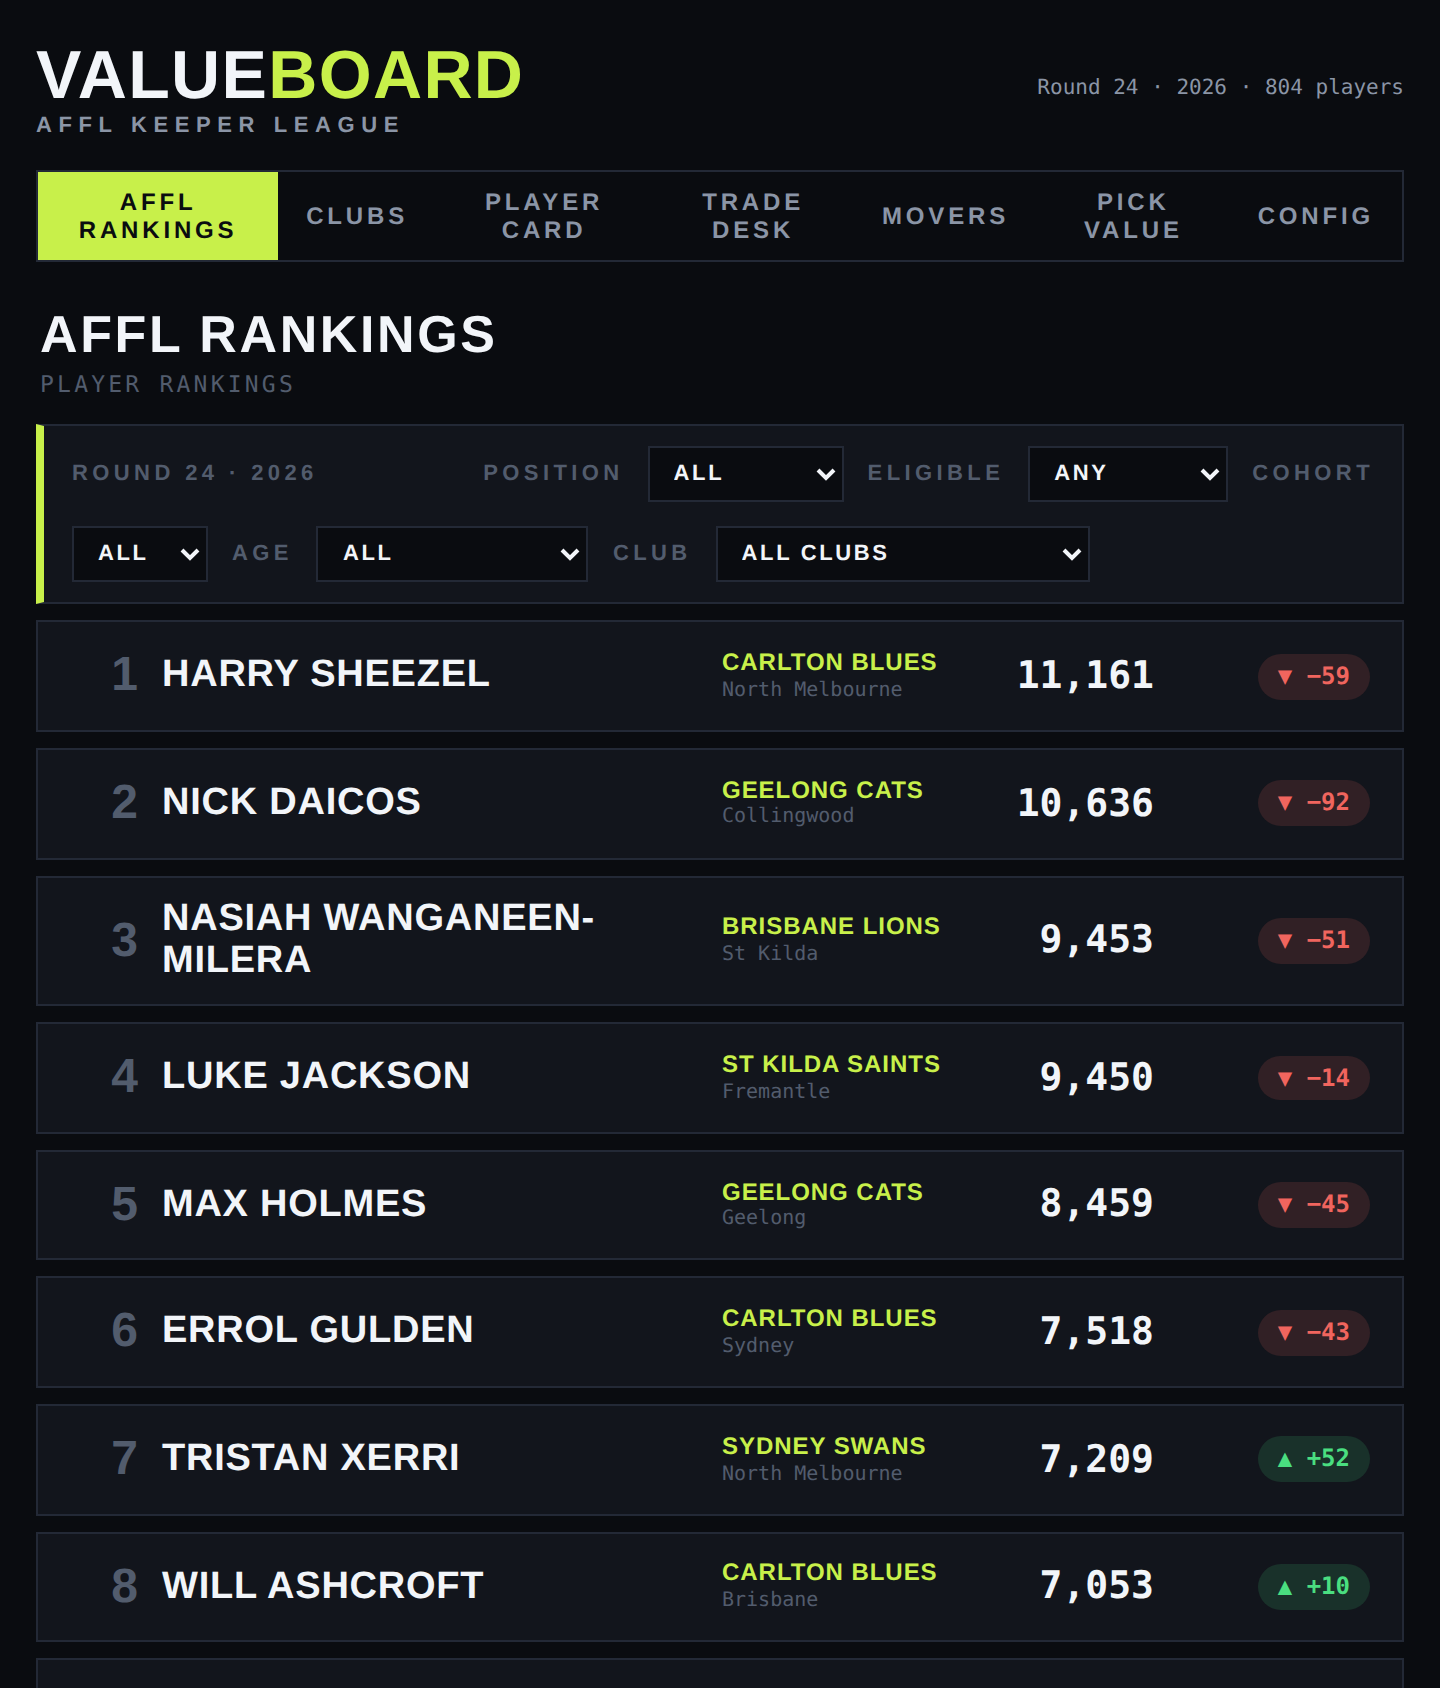
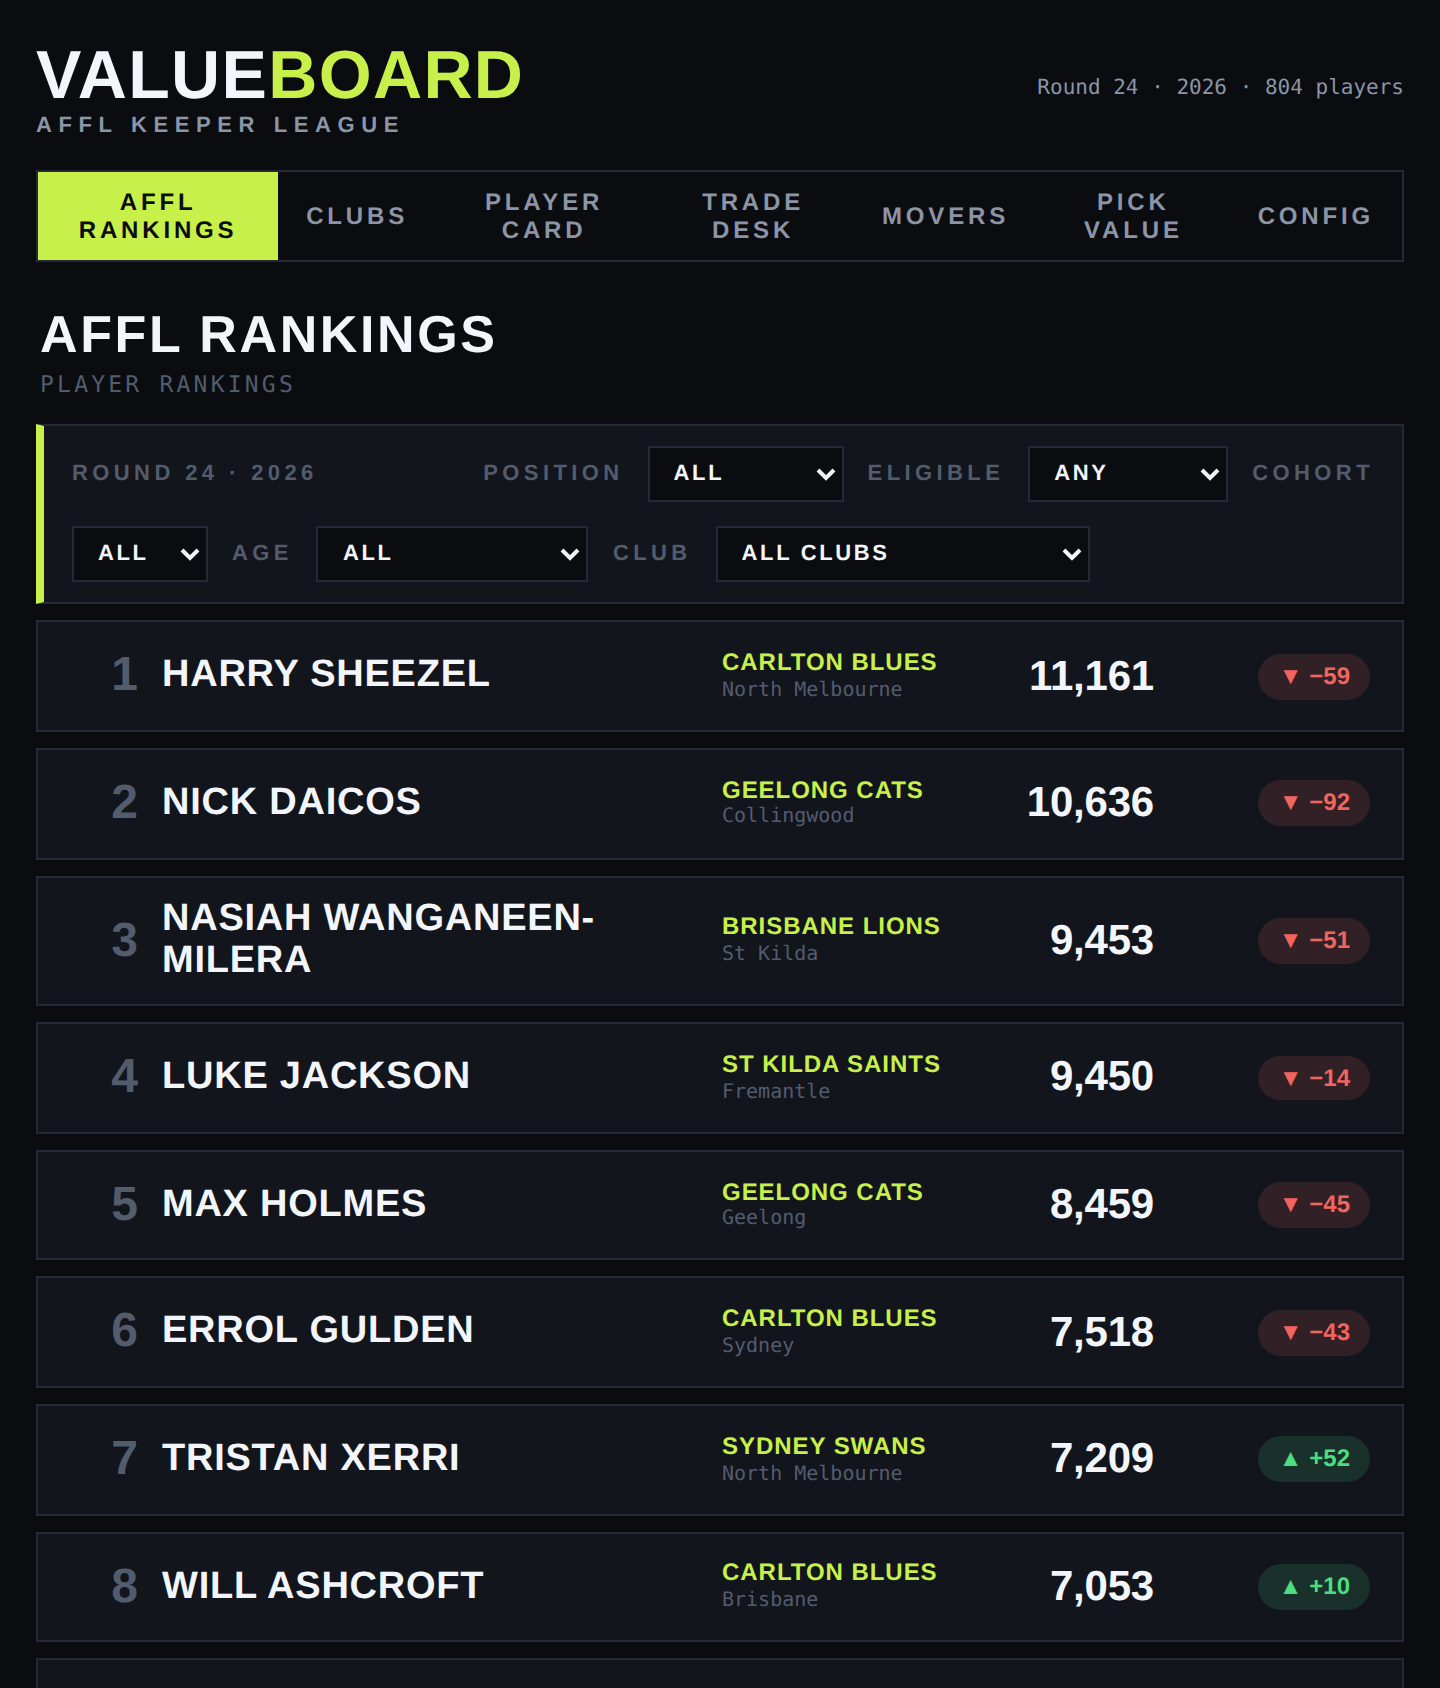
item 10: the value figures move to the system sans, and --fig splits from --mono
His ask was "something that looks a little cleaner and less mechanical" on the
value rating numbers. Two options were rendered and put to him; he chose the
system sans over the condensed scoreboard face.

The change is a TOKEN SPLIT, not a font-family sweep, because one token was
doing two jobs:

  --fig  a VALUE — a price, a delta, a ratio, a rank, a score
  --mono an IDENTIFIER or a caption — a club name, a pick slug, a stamp, a
         footnote, a tooltip

Monospace earned its place on the second and was only ever borrowed for the
first, where the slab figures are exactly what read as mechanical. 24 rules move
to --fig; 23 keep --mono. The board value goes 19px/700 mono to 21px/600 sans,
the card stat figure 24 to 25.

WHAT MONOSPACE WAS ACTUALLY BUYING, AND HOW IT IS KEPT. Alignment. Every digit
on one advance width is why a column of prices reads as a column. Dropping the
mono without replacing that property would have left every numeric column ragged
and the change would not have been worth making. tabular-nums does the same job
in a proportional face, and lining-nums is asked for explicitly so no fallback
substitutes old-style numerals with dropping tails into a table.

The suite pins the property rather than the taste. Which family won is his to
change; that the figures still MEASURE the same width for the same digit count
is not. So it asserts the face is no longer monospaced, that it asks for tabular
[…]

diff --git a/ui/styles/matchday.css b/ui/styles/matchday.css
@@ -13,12 +13,23 @@
   --cond:"Arial Narrow","Helvetica Neue Condensed","Roboto Condensed",Arial,sans-serif;
   --sans:"Helvetica Neue",Arial,sans-serif;
   --mono:ui-monospace,"SF Mono",Menlo,Consolas,monospace;
+  /* OWNER ITEM 10 (2026-08-31), his choice of two put to him: "something that looks a little
+     cleaner and less mechanical" on the value rating numbers. --fig is the FIGURE face and it is
+     now separate from --mono, because the two were doing different jobs under one token:
+       --fig  = a VALUE. A price, a delta, a ratio, a rank, a score. Set in the system sans.
+       --mono = an IDENTIFIER or a caption. A club name, a pick slug, a stamp, a footnote.
+     Monospace earned its place on the second and was only ever borrowed for the first, where its
+     slab figures are what read as mechanical. The alignment that made it worth borrowing is kept
+     without it: tabular-nums pins every digit to one advance width, so columns of figures still
+     line up exactly as they did. Lining figures are asked for explicitly so no fallback face
+     substitutes old-style (dropping-tail) numerals into a table. */
+  --fig:"Helvetica Neue",Helvetica,Arial,"Segoe UI",Roboto,system-ui,sans-serif;
 }
 *{box-sizing:border-box}
 html,body{margin:0}
 body{background:var(--pitch);color:var(--text);font-family:var(--sans);font-size:14px;line-height:1.4;
   -webkit-font-smoothing:antialiased}
-.num{font-family:var(--mono);font-variant-numeric:tabular-nums}
+.num{font-family:var(--fig);font-variant-numeric:tabular-nums lining-nums}
 a{color:var(--volt)}
 
 /* ---- pitch banner (the "invented figures" line becomes the live board stamp line) ---- */
@@ -135,7 +146,7 @@ header.mast{display:flex;align-items:center;gap:18px;flex-wrap:wrap;padding:22px
 .row .club{display:flex;flex-direction:column;gap:1px;min-width:0;line-height:1.15}
 .row .club .affl{font-family:var(--cond);font-weight:700;font-size:12px;letter-spacing:.04em;text-transform:uppercase;color:var(--volt);overflow-wrap:break-word}
 .row .club .afl{font-family:var(--mono);font-size:10px;letter-spacing:0;text-transform:none;color:var(--faint);overflow-wrap:break-word}
-.row .val{font-family:var(--mono);font-weight:700;font-size:19px;text-align:right}
+.row .val{font-family:var(--fig);font-weight:600;font-size:21px;text-align:right;letter-spacing:-.005em}
 /* item 3 (register item 163, owner-worded amendment to the LOCK, 2026-07-15): the CONTINUOUS value line.
    The spectrum is painted on the track (anchored 0..top price); .vmask covers the unfilled remainder, so
    the fill reveals the spectrum from the cool end up to the player's value — colour shifts as it fills.
@@ -153,12 +164,12 @@ header.mast{display:flex;align-items:center;gap:18px;flex-wrap:wrap;padding:22px
 .vline.vline-r{height:16px}
 .vline .vp1{position:absolute;top:0;bottom:0;width:0;border-left:1px dashed rgba(11,14,19,.75);
   box-shadow:1px 0 0 rgba(242,245,249,.35);pointer-events:none}
-.vline .vratio{position:absolute;top:50%;transform:translateY(-50%);font-family:var(--mono);
+.vline .vratio{position:absolute;top:50%;transform:translateY(-50%);font-family:var(--fig);
   font-size:10px;font-weight:700;letter-spacing:.01em;line-height:1;white-space:nowrap;
   pointer-events:none;font-variant-numeric:tabular-nums}
 .vline .vratio.out{margin-left:5px;color:var(--dim)}
 .vline .vratio.in{transform:translate(-100%,-50%);margin-left:-5px;color:#0b0e13}
-.pill{justify-self:end;font-family:var(--mono);font-size:12px;font-weight:700;padding:3px 10px;border-radius:999px;white-space:nowrap}
+.pill{justify-self:end;font-family:var(--fig);font-size:12px;font-weight:700;padding:3px 10px;border-radius:999px;white-space:nowrap}
 .pill.up{background:rgba(74,222,128,.14);color:var(--up)}
 .pill.dn{background:rgba(240,101,94,.14);color:var(--dn)}
 .pill.flat{background:var(--edge);color:var(--faint)}
@@ -192,7 +203,7 @@ header.mast{display:flex;align-items:center;gap:18px;flex-wrap:wrap;padding:22px
   padding:12px 16px 8px;margin-top:12px;border-bottom:2px solid var(--volt)}
 .clubhead .crank{font-family:var(--cond);font-weight:900;font-size:22px;color:var(--volt);text-align:right}
 .clubhead .cname{font-family:var(--cond);font-weight:900;font-size:18px;letter-spacing:.03em;text-transform:uppercase;color:var(--text)}
-.clubhead .csig{font-family:var(--mono);font-weight:700;font-size:16px;color:var(--volt)}
+.clubhead .csig{font-family:var(--fig);font-weight:700;font-size:16px;color:var(--volt)}
 .clubhead .csig small{font-size:10px;color:var(--faint);font-weight:400}
 .clubhead .ccount{font-family:var(--mono);font-size:11px;color:var(--faint)}
 .clubmore{font-family:var(--mono);font-size:11px;color:var(--faint);padding:6px 16px;border:1px dashed var(--edge);
@@ -212,7 +223,7 @@ header.mast{display:flex;align-items:center;gap:18px;flex-wrap:wrap;padding:22px
 .card .body{padding:20px 24px 34px}
 .statrow{display:grid;grid-template-columns:1fr 1fr 1fr;gap:14px}
 .k{font-family:var(--cond);font-weight:700;font-size:10px;letter-spacing:.18em;text-transform:uppercase;color:var(--faint)}
-.v{font-family:var(--mono);font-weight:700;font-size:24px;margin-top:3px}
+.v{font-family:var(--fig);font-weight:600;font-size:25px;margin-top:3px;letter-spacing:-.005em}
 .v.volt{color:var(--volt)} .v.flat{color:var(--faint);font-size:20px}
 .v.up{color:var(--up)} .v.dn{color:var(--dn)} .v small{font-size:13px;color:var(--faint)}
 h2.sec{font-family:var(--cond);font-weight:700;font-size:12px;letter-spacing:.22em;text-transform:uppercase;color:var(--text);
@@ -229,11 +240,11 @@ h2.sec .meta{color:var(--faint);font-family:var(--mono);letter-spacing:0;text-tr
 .wf .bar.up{left:50%;background:var(--up)} .wf .bar.dn{right:50%;background:var(--dn)}
 .wf .bar.rule{right:50%;background:transparent;border:1px solid var(--volt)}
 .wf .bar.resid{left:50%;background:var(--alarm)}
-.wf .fig{font-family:var(--mono);font-weight:700;font-size:13px;text-align:right}
+.wf .fig{font-family:var(--fig);font-weight:700;font-size:13px;text-align:right}
 .wf .fig.up{color:var(--up)} .wf .fig.dn{color:var(--dn)} .wf .fig.zero{color:var(--faint);font-weight:400}
 .wf .fig.rule{color:var(--volt)} .wf .fig.resid{color:var(--alarm)}
 .wf .totals{font-family:var(--cond);font-weight:700;font-size:12px;letter-spacing:.16em;text-transform:uppercase;color:var(--dim)}
-.wf .totals b{font-family:var(--mono);color:var(--text);font-size:15px;letter-spacing:0}
+.wf .totals b{font-family:var(--fig);color:var(--text);font-size:15px;letter-spacing:0}
 .wf .rowline{grid-column:1/4;border-bottom:1px solid var(--edge)}
 .note{margin-top:12px;font-size:12px;color:var(--dim);line-height:1.6}
 .note b{color:var(--volt)}
@@ -255,13 +266,13 @@ h2.sec .meta{color:var(--faint);font-family:var(--mono);letter-spacing:0;text-tr
 .wchart .wcd{fill:var(--volt);stroke:none}
 .wchart .wcd.ev{fill:var(--pitch);stroke:var(--volt);stroke-width:1.5}
 .wchart .wcd.now{fill:#f2f5f9}
-.wchart .wcy{fill:var(--dim);font-family:var(--mono);font-size:10px;text-anchor:end;dominant-baseline:middle}
-.wchart .wcx{fill:var(--dim);font-family:var(--mono);font-size:10px;text-anchor:middle}
+.wchart .wcy{fill:var(--dim);font-family:var(--fig);font-size:10px;text-anchor:end;dominant-baseline:middle}
+.wchart .wcx{fill:var(--dim);font-family:var(--fig);font-size:10px;text-anchor:middle}
 .wchart .wcx.ev{fill:var(--volt)}
 .wchart .wcat{fill:var(--faint);font-family:var(--cond);font-weight:700;font-size:10px;
   letter-spacing:.22em;text-anchor:middle}
 .wcfoot{display:flex;flex-wrap:wrap;gap:6px 16px;align-items:baseline;padding:8px 4px 4px;
-  font-family:var(--mono);font-size:11px;color:var(--dim)}
+  font-family:var(--fig);font-size:11.5px;color:var(--dim)}
 .wcfoot b{color:var(--text);font-variant-numeric:tabular-nums}
 .wcfoot .up{color:var(--up)}.wcfoot .dn{color:var(--dn)}.wcfoot .flat{color:var(--faint)}
 .wcfoot .axnote{margin-left:auto;color:var(--faint);font-family:var(--cond);letter-spacing:.06em;
@@ -278,13 +289,13 @@ h2.sec .meta{color:var(--faint);font-family:var(--mono);letter-spacing:0;text-tr
 .trow{display:flex;align-items:center;gap:10px;padding:0 16px;height:42px;border-bottom:1px solid var(--edge)}
 .trow .tnm{font-family:var(--cond);font-weight:700;font-size:15px;letter-spacing:.02em;text-transform:uppercase;flex:1;overflow-wrap:anywhere}
 .trow .tnm i{color:var(--faint);font-style:normal;font-family:var(--mono);font-size:11px;margin-left:8px;text-transform:none;letter-spacing:0}
-.trow .tfig{font-family:var(--mono);font-weight:700;font-size:14px}
+.trow .tfig{font-family:var(--fig);font-weight:700;font-size:14px}
 .trow .tpin{color:var(--volt)}
 .pickchip{display:inline-block;font-family:var(--cond);font-weight:700;font-size:10px;letter-spacing:.1em;
   text-transform:uppercase;color:var(--volt);border:1px solid var(--volt);padding:1px 6px;margin-right:6px}
 .ttotal{display:flex;justify-content:space-between;align-items:baseline;padding:12px 16px;background:var(--card-2)}
 .ttotal .k{font-family:var(--cond);font-weight:700;font-size:11px;letter-spacing:.18em;text-transform:uppercase;color:var(--faint)}
-.ttotal .tfig{font-family:var(--mono);font-size:19px;font-weight:800;color:var(--volt)}
+.ttotal .tfig{font-family:var(--fig);font-size:19px;font-weight:800;color:var(--volt)}
 /* item 6: type-ahead combobox — dropdown font matched to the board's condensed type style. */
 .combo{position:relative;padding:9px 16px}
 .combo input.tradesearch{width:100%;background:var(--pitch);color:var(--text);border:1px solid var(--edge);
@@ -297,14 +308,14 @@ h2.sec .meta{color:var(--faint);font-family:var(--mono);letter-spacing:0;text-tr
   text-align:left;background:transparent;border:0;border-bottom:1px solid var(--edge);padding:8px 12px;cursor:pointer;
   font-family:var(--cond);font-weight:700;font-size:13px;letter-spacing:.04em;text-transform:uppercase;color:var(--text)}
 .combo .results button:hover{background:var(--volt);color:#0a0c10}
-.combo .results button .rv{font-family:var(--mono);font-weight:700;color:var(--faint)}
+.combo .results button .rv{font-family:var(--fig);font-weight:700;color:var(--faint)}
 .combo .results button:hover .rv{color:#0a0c10}
 .combo .results .rpick{color:var(--volt)}
 .combo .results .rpick small{font-family:var(--mono);font-weight:400;font-size:10px;color:var(--faint);letter-spacing:0}
 .combo .results button:hover .rpick,.combo .results button:hover .rpick small{color:#0a0c10}
 .combo .results .rnone{padding:9px 12px;color:var(--faint);font-family:var(--mono);font-size:12px}
 .verdict{margin-top:16px;background:var(--card);border:1px solid var(--edge);border-left:4px solid var(--volt);padding:18px 20px}
-.verdict .gap{font-family:var(--mono);font-size:24px;font-weight:800}
+.verdict .gap{font-family:var(--fig);font-size:24px;font-weight:800}
 .verdict .gap.up{color:var(--up)} .verdict .gap.dn{color:var(--dn)} .verdict .gap.flat{color:var(--faint)}
 .verdict .line{margin-top:8px;font-size:15px;line-height:1.5}
 .verdict .line b{color:var(--text)}
@@ -391,7 +402,7 @@ h2.sec .meta{color:var(--faint);font-family:var(--mono);letter-spacing:0;text-tr
 .mctag{display:inline-block;margin-left:8px;font-family:var(--cond);font-weight:700;font-size:9px;
   letter-spacing:.12em;text-transform:uppercase;border:1px solid var(--volt);color:var(--volt);
   padding:1px 6px;cursor:help}
-.hm{font-family:var(--mono);font-size:11px}
+.hm{font-family:var(--fig);font-size:11.5px}
 .hm.up{color:var(--up)} .hm.dn{color:var(--dn)} .hm.flat,.hm.na{color:var(--faint)}
 /* a score that exists; a proven DNP; and a blank that makes no claim either way */
 .histtbl .hsc{font-variant-numeric:tabular-nums}
@@ -526,7 +537,7 @@ footer.foot{margin-top:24px;color:var(--faint);font-size:11px;font-family:var(--
 .pickrow{display:grid;grid-template-columns:72px 1fr 72px;gap:10px;align-items:baseline;
   padding:6px 16px;border-bottom:1px solid rgba(35,41,54,.5)}
 .pickrow:last-child{border-bottom:0}
-.pickrow .pkband{font-family:var(--mono);font-weight:700;font-size:13px;color:var(--text)}
+.pickrow .pkband{font-family:var(--fig);font-weight:700;font-size:13px;color:var(--text)}
 .pickrow .pkmeta{font-family:var(--cond);font-size:12px;letter-spacing:.03em;color:var(--dim);text-transform:uppercase}
 .pickrow .pkval{text-align:right;font-size:14px;color:var(--volt)}
 .pickspanel .picknone{padding:10px 16px;color:var(--faint);font-size:12px}
@@ -551,7 +562,7 @@ footer.foot{margin-top:24px;color:var(--faint);font-size:11px;font-family:var(--
   text-transform:uppercase;color:var(--text)}
 .ctable td.club a{color:var(--text);text-decoration:none;border-bottom:1px dotted var(--edge)}
 .ctable td.club a:hover{color:var(--volt);border-bottom-color:var(--volt)}
-.ctable td.num{font-family:var(--mono);font-variant-numeric:tabular-nums;color:var(--text)}
+.ctable td.num{font-family:var(--fig);font-variant-numeric:tabular-nums lining-nums;color:var(--text)}
 .ctable td.overall{color:var(--volt);font-weight:700}
 .ctable td.picks{color:var(--dim)}
 .ctable tbody tr:hover{background:var(--card-2)}
@@ -584,11 +595,11 @@ footer.foot{margin-top:24px;color:var(--faint);font-size:11px;font-family:var(--
   color:var(--faint);border-bottom:1px solid var(--edge)}
 .pocketpanel .pk-tbl td.pk-lbl{text-align:left;font-family:var(--cond);font-weight:700;font-size:11px;letter-spacing:.06em;
   text-transform:uppercase;color:var(--dim)}
-.pocketpanel .pk-tbl td.num{font-family:var(--mono);font-variant-numeric:tabular-nums}
+.pocketpanel .pk-tbl td.num{font-family:var(--fig);font-variant-numeric:tabular-nums lining-nums}
 .pocketpanel .pk-tbl td.pk-abs{color:var(--text);font-weight:700}
 .pocketpanel .pk-tbl td.pk-pct{color:var(--dim)}
 .pocketpanel .pk-tbl tbody tr:hover{background:var(--card-2)}
-.pocketpanel .pk-vs{font-family:var(--mono);font-size:11px;font-weight:700}
+.pocketpanel .pk-vs{font-family:var(--fig);font-size:11px;font-weight:700}
 .pocketpanel .pk-vs small{font-weight:400;color:var(--faint);margin-left:3px}
 .pocketpanel .pk-vs.up{color:var(--up)} .pocketpanel .pk-vs.dn{color:var(--dn)} .pocketpanel .pk-vs.flat{color:var(--faint)}
 .pocketpanel .pk-foot{font-size:10px;line-height:1.5;color:var(--faint);padding:9px 14px 4px;border-top:1px solid var(--edge);margin-top:4px}
@@ -606,7 +617,7 @@ footer.foot{margin-top:24px;color:var(--faint);font-size:11px;font-family:var(--
   text-transform:uppercase;color:var(--faint)}
 .movercard .mcn{font-family:var(--cond);font-weight:900;font-size:18px;letter-spacing:.02em;
   text-transform:uppercase;color:var(--text);line-height:1.05;overflow-wrap:anywhere}
-.movercard .mcv{font-family:var(--mono);font-weight:700;font-size:16px}
+.movercard .mcv{font-family:var(--fig);font-weight:700;font-size:16px}
 .movercard .mcv.up{color:var(--up)} .movercard .mcv.dn{color:var(--dn)}
 .movercard .mcv.flat,.movercard .mcv.na{color:var(--faint)}
 .movercard .mcs{font-size:10.5px;color:var(--dim)}
@@ -632,9 +643,9 @@ footer.foot{margin-top:24px;color:var(--faint);font-size:11px;font-family:var(--
 .moverrow .mr.who .nm{font-family:var(--cond);font-weight:700;font-size:16px;letter-spacing:.02em;
   text-transform:uppercase;color:var(--text);overflow-wrap:anywhere;line-height:1.05}
 .moverrow .mr.who .sub{font-family:var(--mono);font-size:10px;color:var(--faint)}
-.moverrow .mr.val{font-family:var(--mono);font-weight:700;font-size:15px;text-align:right}
+.moverrow .mr.val{font-family:var(--fig);font-weight:700;font-size:15px;text-align:right}
 .moverrow .mr.dv,.moverrow .mr.dr{justify-self:end}
-.moverrow .mr.dvp,.moverrow .mr.dpr{font-family:var(--mono);font-size:12px;text-align:right}
+.moverrow .mr.dvp,.moverrow .mr.dpr{font-family:var(--fig);font-size:12px;text-align:right}
 .moverrow .mr.dvp.up,.moverrow .mr.dpr.up{color:var(--up)}
 .moverrow .mr.dvp.dn,.moverrow .mr.dpr.dn{color:var(--dn)}
 .moverrow .mr.dvp.flat,.moverrow .mr.dpr.flat,.moverrow .mr.dvp.na,.moverrow .mr.dpr.na{color:var(--faint)}
